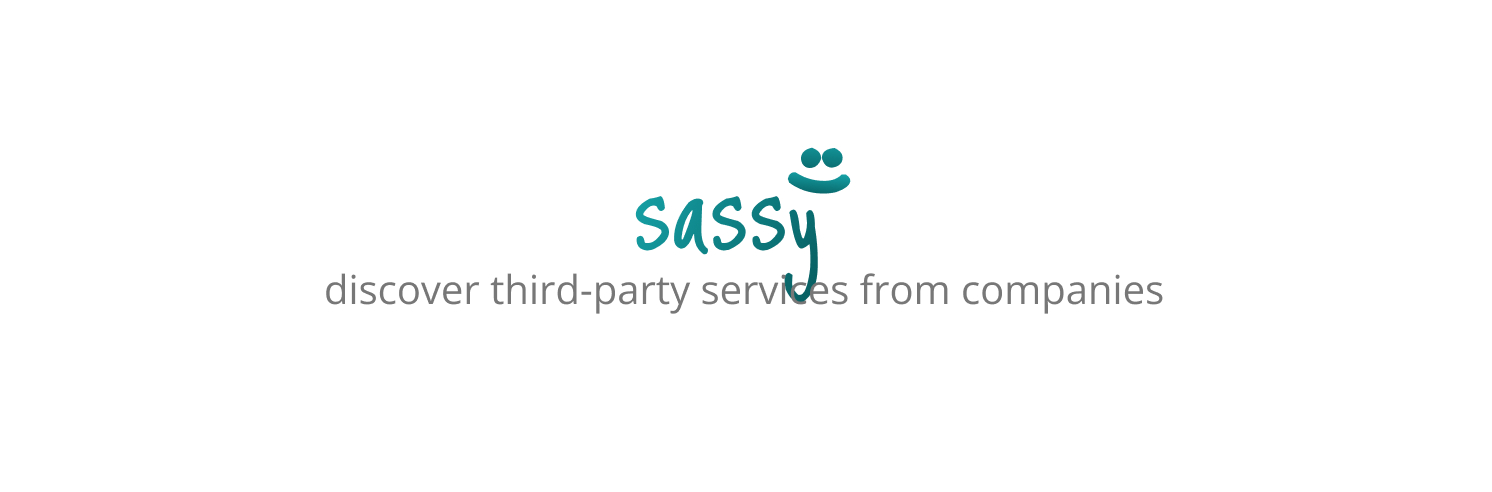
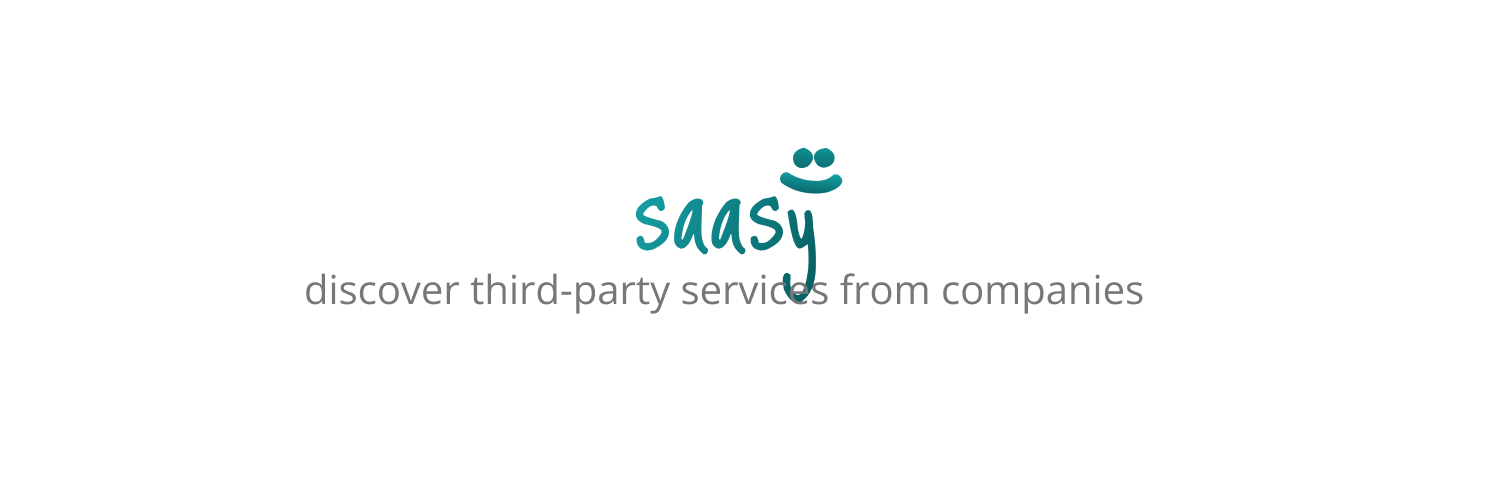
fix: rename project from 'sassy' to 'saasy'

Changed region(s): [[0.185, 0.3963, 0.7708, 0.6402], [0.5241, 0.3049, 0.5858, 0.3963]]

diff --git a/README.md b/README.md
@@ -6,7 +6,7 @@
 
 <hr/>
 
-sassy is a Python tool designed to enumerate third-party services from companies. It uses the targeted company name as the keyword and a placeholder scheme to create a service URL and see if it's a published service. To avoid false positives, it uses a comparison runtime mechanism based on status code, response body size, and response body hash (SHA-256) to generate a baseline and compare it with the actual request, analyzing if there is any similarity between the target service and the already known invalid baseline.
+saasy is a Python tool designed to enumerate third-party services from companies. It uses the targeted company name as the keyword and a placeholder scheme to create a service URL and see if it's a published service. To avoid false positives, it uses a comparison runtime mechanism based on status code, response body size, and response body hash (SHA-256) to generate a baseline and compare it with the actual request, analyzing if there is any similarity between the target service and the already known invalid baseline.
 
 <br>
 
@@ -17,37 +17,37 @@ We recommend using [pipx](https://github.com/pypa/pipx) to install the project, 
 ```
 sudo apt install pipx git
 pipx ensurepath
-pipx install git+https://github.com/0xdsm/sassy
+pipx install git+https://github.com/0xdsm/saasy
 ```
 
 ### MacOS
 ```
 brew install pipx
 pipx ensurepath
-pipx install git+https://github.com/0xdsm/sassy
+pipx install git+https://github.com/0xdsm/saasy
 ```
 
 ### Local
 ```
-git clone https://github.com/0xdsm/sassy.git
+git clone https://github.com/0xdsm/saasy.git
 pipx install .
 ```
 
 ### Updating
 ```
-pipx reinstall sassy
+pipx reinstall saasy
 ```
 
 <br>
 
 ## Usage
 
-To start using sassy, you need to specify a target (keyword). The basic usage is as follows:
+To start using saasy, you need to specify a target (keyword). The basic usage is as follows:
 
 Basic usage:
 ```sh
-sassy nubank
-sassy 0.1.0 :: discover third-party services from companies
+saasy nubank
+saasy 0.1.0 :: discover third-party services from companies
 
 [!] Running... (257 checks)
 
@@ -68,8 +68,8 @@ sassy 0.1.0 :: discover third-party services from companies
 
 You can specify the flag `--verbose` to see the detailed enumeration process. For example:
 ```
-sassy nubank --verbose
-sassy 0.1.0 :: discover third-party services from companies
+saasy nubank --verbose
+saasy 0.1.0 :: discover third-party services from companies
 
 [!] Running... (257 checks)
 
@@ -94,7 +94,7 @@ sassy 0.1.0 :: discover third-party services from companies
 
 Also, you can save the valid findings in a file with the flag `--output <filename>`. For example:
 ```
-sassy nubank --output results.txt
+saasy nubank --output results.txt
 ```
 
 <br>